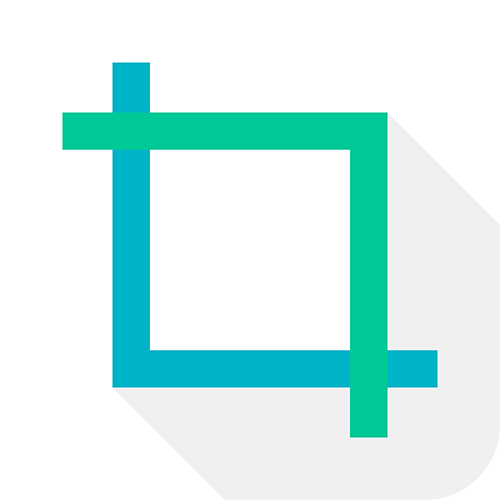
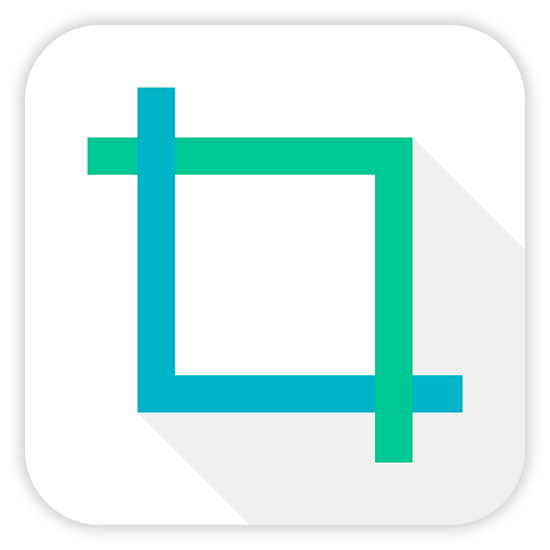
3월 4일 오후 7시 26분

diff --git a/index.html b/index.html
@@ -7,9 +7,13 @@
     <link rel="stylesheet" type="text/css" href="style.css">
     <link href="https://fonts.googleapis.com/css?family=Noto+Sans+KR:300&display=swap&subset=korean" rel="stylesheet">
     <meta name="viewport" content="width=device-width, initial-scale=1.0, user-scalable=no, maximum-scale=1.0, minimum-scale=1.0">
-    
+
     <meta content="yes" name="apple-mobile-web-app-capable" />
     <meta content="minimum-scale=1.0, width=device-width, maximum-scale=1, user-scalable=no" name="viewport" />
+
+    <link rel="shortcut icon" href="icon2.ico" type="image/x-icon">
+    <link rel="icon" href="icon2.ico" type="image/x-icon">
+    <link rel="apple-touch-icon-precomposed" href="icon2.ico" type="image/x-icon">
 </head>
 
 <body>

diff --git a/thanks.html b/thanks.html
@@ -75,6 +75,17 @@
             그것이 제 작은 바람입니다.</p>
 
         <p>2019 여름, 흰캡처 개발자 DevSIL 올림</p>
-
+        <p>&nbsp;</p>
+<script async src="https://pagead2.googlesyndication.com/pagead/js/adsbygoogle.js"></script>
+<!-- 흰캡처_감사의글 -->
+<ins class="adsbygoogle"
+     style="display:block"
+     data-ad-client="ca-pub-8300508428952123"
+     data-ad-slot="3384058770"
+     data-ad-format="horizontal"
+     data-full-width-responsive="true"></ins>
+<script>
+     (adsbygoogle = window.adsbygoogle || []).push({});
+</script>
     </div>
 </body></html>
